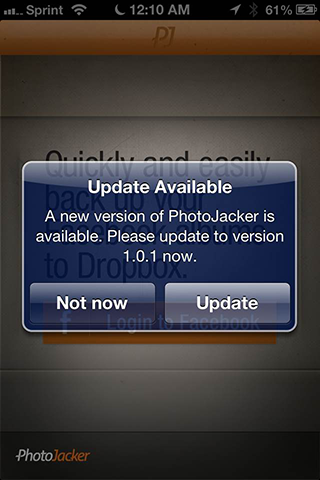
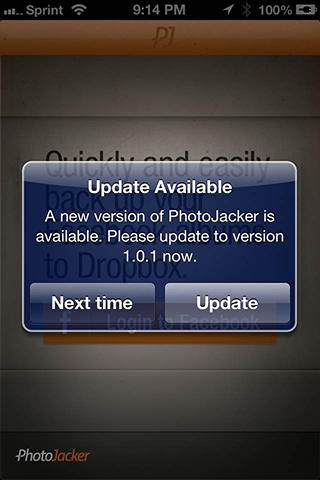
v2.2.0
Added third option that allows users to skip seeing alerts for current
AppStore version

diff --git a/Harpy/Harpy.m b/Harpy/Harpy.m
@@ -16,6 +16,7 @@ static NSDate *lastVersionCheckPerformedOnDate;
 @interface Harpy ()
 
 + (NSUInteger)numberOfDaysElapsedBetweenILastVersionCheckDate;
++ (void)showAlertIfCurrentAppStoreVersionNotSkipped:(NSString*)currentAppStoreVersion;
 + (void)showAlertWithAppStoreVersion:(NSString*)appStoreVersion;
 
 @end
@@ -25,7 +26,7 @@ static NSDate *lastVersionCheckPerformedOnDate;
 #pragma mark - Public Methods
 + (void)checkVersion
 {
-
+    
     // Asynchronously query iTunes AppStore for publically available version
     NSString *storeString = [NSString stringWithFormat:@"http://itunes.apple.com/lookup?id=%@", kHarpyAppID];
     NSURL *storeURL = [NSURL URLWithString:storeString];
@@ -34,11 +35,11 @@ static NSDate *lastVersionCheckPerformedOnDate;
     NSOperationQueue *queue = [[NSOperationQueue alloc] init];
     
     [NSURLConnection sendAsynchronousRequest:request queue:queue completionHandler:^(NSURLResponse *response, NSData *data, NSError *error) {
-       
+        
         if ( [data length] > 0 && !error ) { // Success
             
             NSDictionary *appData = [NSJSONSerialization JSONObjectWithData:data options:NSJSONReadingAllowFragments error:nil];
-
+            
             dispatch_async(dispatch_get_main_queue(), ^{
                 
                 // Store version comparison date
@@ -52,22 +53,21 @@ static NSDate *lastVersionCheckPerformedOnDate;
                     return;
                     
                 } else {
-
+                    
                     NSString *currentAppStoreVersion = [versionsInAppStore objectAtIndex:0];
-
-                    if ([kHarpyCurrentVersion compare:currentAppStoreVersion options:NSNumericSearch] == NSOrderedAscending) {
-		                
-                        [Harpy showAlertWithAppStoreVersion:currentAppStoreVersion];
-	                
+                    
+                    if ( [kHarpyCurrentVersion compare:currentAppStoreVersion options:NSNumericSearch] == NSOrderedAscending ) {
+                        
+                        [self showAlertIfCurrentAppStoreVersionNotSkipped:currentAppStoreVersion];
+                        
+                    } else {
+                        
+                        // Current installed version is the newest public version or newer (e.g., dev version)	
+                        
                     }
-                    else {
-		            
-                        // Current installed version is the newest public version or newer	
-	                
-                    }
-
+                    
                 }
-              
+                
             });
         }
         
@@ -122,7 +122,7 @@ static NSDate *lastVersionCheckPerformedOnDate;
     if ( [Harpy numberOfDaysElapsedBetweenILastVersionCheckDate] > 7 ) {
         
         [Harpy checkVersion];
-        
+
     }
 }
 
@@ -138,32 +138,80 @@ static NSDate *lastVersionCheckPerformedOnDate;
     return [components day];
 }
 
++ (void)showAlertIfCurrentAppStoreVersionNotSkipped:(NSString *)currentAppStoreVersion
+{
+    // Check if user decided to skip this version in the past
+    BOOL shouldSkipVersionUpdate = [[NSUserDefaults standardUserDefaults] boolForKey:kHarpyDefaultShouldSkipVersion];
+    NSString *storedSkippedVersion = [[NSUserDefaults standardUserDefaults] objectForKey:kHarpyDefaultSkippedVersion];
+    
+    if ( !shouldSkipVersionUpdate ) {
+        
+        [Harpy showAlertWithAppStoreVersion:currentAppStoreVersion];
+        
+    } else if ( shouldSkipVersionUpdate && ![storedSkippedVersion isEqualToString:currentAppStoreVersion] ) {
+        
+        [Harpy showAlertWithAppStoreVersion:currentAppStoreVersion];
+        
+    } else {
+        
+        // Don't show alert.
+        return;
+        
+    }
+}
+
 + (void)showAlertWithAppStoreVersion:(NSString *)currentAppStoreVersion
 {
     
+    // Reference App's name
     NSString *appName = [[[NSBundle mainBundle] infoDictionary] objectForKey:(NSString*)kCFBundleNameKey];
     
-    if ( harpyForceUpdate ) { // Force user to update app
-        
-        UIAlertView *alertView = [[UIAlertView alloc] initWithTitle:kHarpyAlertViewTitle
-                                                            message:[NSString stringWithFormat:@"A new version of %@ is available. Please update to version %@ now.", appName, currentAppStoreVersion]
-                                                           delegate:self
-                                                  cancelButtonTitle:kHarpyUpdateButtonTitle
-                                                  otherButtonTitles:nil, nil];
-        
-        [alertView show];
-        
-    } else { // Allow user option to update next time user launches your app
-        
-        
-        UIAlertView *alertView = [[UIAlertView alloc] initWithTitle:kHarpyAlertViewTitle
-                                                            message:[NSString stringWithFormat:@"A new version of %@ is available. Please update to version %@ now.", appName, currentAppStoreVersion]
-                                                           delegate:self
-                                                  cancelButtonTitle:kHarpyCancelButtonTitle
-                                                  otherButtonTitles:kHarpyUpdateButtonTitle, nil];
-        
-        [alertView show];
-        
+    switch ( kHarpyAlertType ) {
+            
+        case AlertType_Force: {
+            
+            
+            UIAlertView *alertView = [[UIAlertView alloc] initWithTitle:kHarpyAlertViewTitle
+                                                                message:[NSString stringWithFormat:@"A new version of %@ is available. Please update to version %@ now.", appName, currentAppStoreVersion]
+                                                               delegate:self
+                                                      cancelButtonTitle:kHarpyUpdateButtonTitle
+                                                      otherButtonTitles:nil, nil];
+            
+            [alertView show];
+
+            
+        } break;
+            
+        case AlertType_Option: {
+            
+            UIAlertView *alertView = [[UIAlertView alloc] initWithTitle:kHarpyAlertViewTitle
+                                                                message:[NSString stringWithFormat:@"A new version of %@ is available. Please update to version %@ now.", appName, currentAppStoreVersion]
+                                                               delegate:self
+                                                      cancelButtonTitle:kHarpyCancelButtonTitle
+                                                      otherButtonTitles:kHarpyUpdateButtonTitle, nil];
+            
+            [alertView show];
+            
+        } break;
+            
+        case AlertType_Skip: {
+            
+            // Store currentAppStoreVersion in case user pushes skip
+            [[NSUserDefaults standardUserDefaults] setObject:currentAppStoreVersion forKey:kHarpyDefaultSkippedVersion];
+            [[NSUserDefaults standardUserDefaults] synchronize];
+            
+            UIAlertView *alertView = [[UIAlertView alloc] initWithTitle:kHarpyAlertViewTitle
+                                                                message:[NSString stringWithFormat:@"A new version of %@ is available. Please update to version %@ now.", appName, currentAppStoreVersion]
+                                                               delegate:self
+                                                      cancelButtonTitle:kHarpySkipButtonTitle
+                                                      otherButtonTitles:kHarpyUpdateButtonTitle, kHarpyCancelButtonTitle, nil];
+            
+            [alertView show];
+            
+        } break;
+            
+        default:
+            break;
     }
     
 }
@@ -172,35 +220,58 @@ static NSDate *lastVersionCheckPerformedOnDate;
 + (void)alertView:(UIAlertView *)alertView clickedButtonAtIndex:(NSInteger)buttonIndex
 {
     
-    if ( harpyForceUpdate ) {
-
-        NSString *iTunesString = [NSString stringWithFormat:@"https://itunes.apple.com/app/id%@", kHarpyAppID];
-        NSURL *iTunesURL = [NSURL URLWithString:iTunesString];
-        [[UIApplication sharedApplication] openURL:iTunesURL];
-        
-    } else {
-
-        switch ( buttonIndex ) {
-                
-            case 0:{ // Cancel / Not now
-        
-                // Do nothing
-                
-            } break;
-                
-            case 1:{ // Update
+    
+    switch ( kHarpyAlertType ) {
+            
+        case AlertType_Force: { // Launch App Store.app
+            
+            NSString *iTunesString = [NSString stringWithFormat:@"https://itunes.apple.com/app/id%@", kHarpyAppID];
+            NSURL *iTunesURL = [NSURL URLWithString:iTunesString];
+            [[UIApplication sharedApplication] openURL:iTunesURL];
+            
+        } break;
+            
+        case AlertType_Option: {
+            
+            if ( 1 == buttonIndex ) { // Launch App Store.app
                 
                 NSString *iTunesString = [NSString stringWithFormat:@"https://itunes.apple.com/app/id%@", kHarpyAppID];
                 NSURL *iTunesURL = [NSURL URLWithString:iTunesString];
                 [[UIApplication sharedApplication] openURL:iTunesURL];
                 
-            } break;
+            } else { // Ask user on next launch
                 
-            default:
-                break;
-        }
-        
+                // Do nothing
+                
+            }
+            
+        } break;
+            
+        case AlertType_Skip: {
+            
+            if ( 0 == buttonIndex ) { // Skip current version in AppStore
+            
+                [[NSUserDefaults standardUserDefaults] setBool:YES forKey:kHarpyDefaultShouldSkipVersion];
+                [[NSUserDefaults standardUserDefaults] synchronize];
+                
+            } else if ( 1 == buttonIndex ) { // Launch App Store.app
+                
+                NSString *iTunesString = [NSString stringWithFormat:@"https://itunes.apple.com/app/id%@", kHarpyAppID];
+                NSURL *iTunesURL = [NSURL URLWithString:iTunesString];
+                [[UIApplication sharedApplication] openURL:iTunesURL];
+                
+            } else if ( 2 == buttonIndex) { // Ask user on next launch
+                
+                // Do nothing
+                
+            }
+            
+        } break;
+            
+        default:
+            break;
     }
+    
 
     
 }

diff --git a/Harpy/HarpyConstants.h b/Harpy/HarpyConstants.h
@@ -1,23 +1,45 @@
 //
 //  HarpyConstants.h
-//  
+//  Harpy
 //
 //  Created by Arthur Ariel Sabintsev on 1/30/13.
+//  Copyright (c) 2012 Arthur Ariel Sabintsev. All rights reserved.
 //
-//
+
+
+#pragma mark - Non-Customizable Declarations
+/// Structure defining type of UIAlertView to display
+typedef NS_ENUM(NSUInteger, AlertType)
+{
+    
+    AlertType_Force,    // Forces user to update your app
+    AlertType_Option,   // (DEFAULT) Presents user with option to update app now or at next launch
+    AlertType_Skip      // Presents User with option to update the app now, at next launch, or to skip this version all together
+    
+};
+
+/// NSUserDefault Macro to store user's preferences for AlertType_Skip
+#define kHarpyDefaultShouldSkipVersion      @"Harpy Should Skip Version Boolean"
+#define kHarpyDefaultSkippedVersion         @"Harpy User Decided To Skip Version Update Boolean"
+
+/************************/
+/** BEGIN CUSTOMIZATION */
+/************************/
 
 #warning Please customize Harpy's static variables
 
-/*
- Option 1 (DEFAULT): NO gives user option to update during next session launch
- Option 2: YES forces user to update app on launch
- */
-static BOOL harpyForceUpdate = NO;
+/// 1. Alert Type (Force, Option, or Skip)
+#define kHarpyAlertType                     AlertType_Option // Choose between AlertType_Force, AlertType_Option, or AlertType_Skip
 
-// 2. Your AppID (found in iTunes Connect)
-#define kHarpyAppID                 @"573293275"
+/// 2. Your AppID (found in iTunes Connect)
+#define kHarpyAppID                         @"573293275"
 
-// 3. Customize the alert title and action buttons
-#define kHarpyAlertViewTitle        @"Update Available"
-#define kHarpyCancelButtonTitle     @"Not now"
-#define kHarpyUpdateButtonTitle     @"Update"
+/// 3. Customize the alert title and action buttons
+#define kHarpyAlertViewTitle                @"Update Available"
+#define kHarpyCancelButtonTitle             @"Next time"
+#define kHarpySkipButtonTitle               @"Skip this version"
+#define kHarpyUpdateButtonTitle             @"Update"
+
+/************************/
+/** END CUSTOMIZATION ***/
+/************************/

diff --git a/README.md b/README.md
@@ -8,11 +8,13 @@
 ### Screenshots
 
 - The **left picture** forces the user to update the app.
-- The **right picture** gives the user the option to update the app.
+- The **center picture** gives the user the option to update the app.
+- The **right picture** gives the user the skip the current update.
 - This option is configurable in **Harpy.h**.
  
 ![Forced Update](https://github.com/ArtSabintsev/Harpy/blob/master/picForcedUpdate.png?raw=true "Forced Update") 
 ![Optional Update](https://github.com/ArtSabintsev/Harpy/blob/master/picOptionalUpdate.png?raw=true "Optional Update")
+![Skipped Update](https://github.com/ArtSabintsev/Harpy/blob/master/picSkippedUpdate.png?raw=true "Optional Update")
 
 ### Installation Instructions:
 
@@ -20,13 +22,18 @@
 
 1. Import **Harpy.h** into your AppDelegate or Pre-Compiler Header (.pch)
 		
-1. Configure the static variables in **HarpyConstants.h**, and remove the ```#warning``` after customizing those variables. 
-	
+1. Configure the static variables in **HarpyConstants.h**, and remove the ```#warning``` after customizing said variables. 
+
+	- Note: `kHarpyAlertType` is set to `AlertType_Option` by default. 
+	- To force the user to update your app on launch, set `kHarpyAlertType` to `AlertType_Force`
+	- To allow the user to forego seeing alerts for current AppStore version, set `kHarpyAlertType` to `AlertType_Skip`
+	- To have an alert pop up each time the application launches from a full shutdown (e.g., no background), keep the default setting (`KHarpyAlertType == AlertType_Option`).  
+
 1.  In your **AppDelegate.m**, add **only one** of the following methods:
-	- ```[Harpy checkVersion]``` after makeKeyAndVisible is called on your UIWindow iVar in ```application:didFinishLaunchingWithOptions:```
-	- ```[Harpy checkVersionDaily]``` in ```applicationDidBecomeActive:```
-	- ```[Harpy checkVersionWeekly]``` in ```applicationDidBecomeActive:```
-	- **NOTE: Call only one of the Harpy methods, as they all perform a check on your application's first launch. using multiple methods will result in multiple UIAlertViews to pop.**
+	- `[Harpy checkVersion]` after makeKeyAndVisible is called on your UIWindow iVar in `application:didFinishLaunchingWithOptions:`
+	- `[Harpy checkVersionDaily]` in `applicationDidBecomeActive:`
+	- `[Harpy checkVersionWeekly]` in `applicationDidBecomeActive:`
+	- **NOTE: Call only one of the Harpy methods, as they all perform a check on your application's first launch. Using multiple methods will result in multiple UIAlertViews to pop.**
 	
 <pre>
 - (BOOL)application:(UIApplication *)application didFinishLaunchingWithOptions:(NSDictionary *)launchOptions
@@ -68,10 +75,8 @@ And you're all set!
 ### Important Note on AppStore Submissions
 - The AppStore reviewer will **not** see the alert. 
 
-###  Release Notes (v2.1.0):
-- Added version check support for apps that are backgrounded for extended periods of time 
-	- Daily check performed with ```checkVersionDaily```
-	- Weekly check performed with ```checkVersionWeekly```
+###  Release Notes (v2.2.0):
+- Added third option that allows users to skip seeing alerts for current AppStore version
 
 ### Contributors
 - [Aaron Brager](http://www.github.com/getaaron) in v1.5.0
